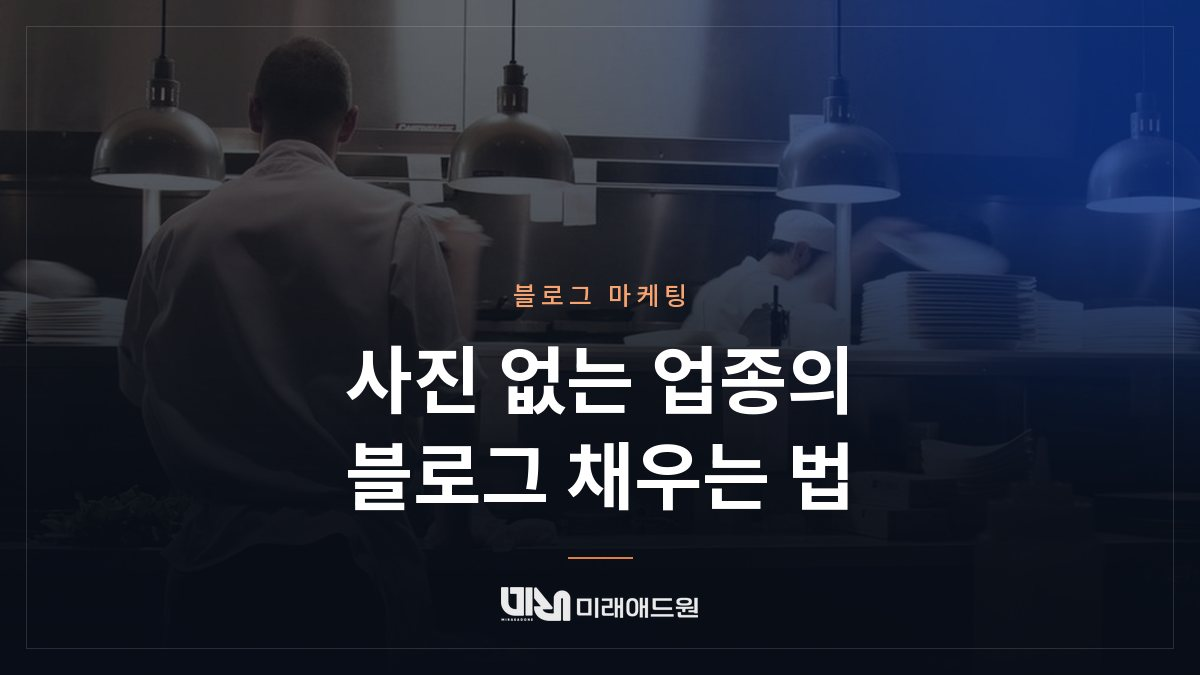
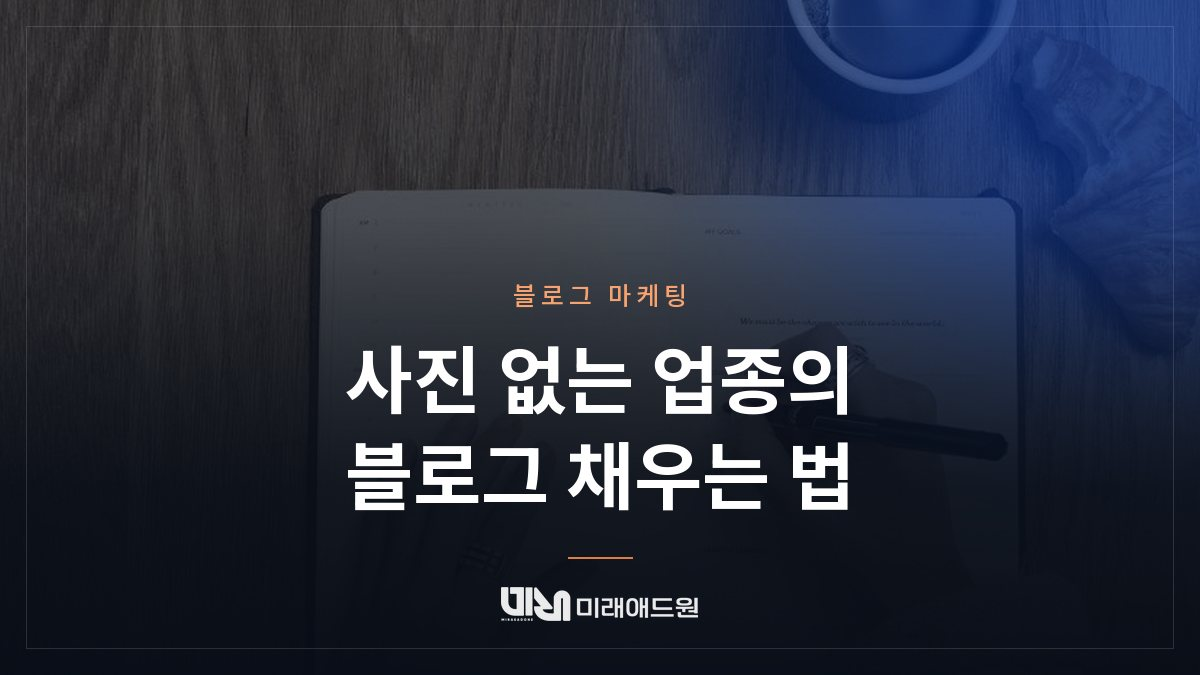
인사이트 썸네일: 글과 안 맞는 배경 바로잡기(맘카페·사진 없는 업종·병원·펜션·프랜차이즈·바이럴), 글자 뒤집힘 방지, 쉼표 뒤 줄바꿈

diff --git a/tools/thumbs/build_thumbs.py b/tools/thumbs/build_thumbs.py
@@ -97,6 +97,15 @@ def balance(d, lines, f, max_w):
     return [a, b]
 
 
+def comma_lines(d, s, f, max_w):
+    """쉼표가 있으면 쉼표 뒤에서 나눈다(양쪽 다 한 줄에 들어갈 때만) — 「첫 / 달」처럼 말이 끊기는 것을 막는다."""
+    if ', ' not in s:
+        return None
+    a, b = s.split(', ', 1)
+    a += ','
+    return [a, b] if d.textlength(a, font=f) <= max_w and d.textlength(b, font=f) <= max_w else None
+
+
 # ── 표지 문구 ────────────────────────────────────────
 def display_title(m):
     """머리말 cover(32자 이내 표지 문구)를 우선 쓰고, 없으면 제목의 앞 절만 쓴다."""
@@ -114,9 +123,9 @@ def display_title(m):
 # ── 배경 테마 ────────────────────────────────────────
 # 제목의 강한 신호만 본다. 흔한 단어는 넣지 않는다(배경이 한쪽으로 쏠리는 것을 막기 위해).
 THEME_RULES = [
-    ('cafe',       r'카페|커피|디저트|베이커리'),
+    ('cafe',       r'(?<!맘)카페(?! 바이럴)|커피|디저트|베이커리'),  # 맘카페·카페 바이럴은 온라인 커뮤니티라 제외
     ('food',       r'음식점|식당|외식|메뉴|맛집|요리'),
-    ('kitchen',    r'촬영|사진|영상|숏폼|릴스'),
+    ('kitchen',    r'촬영|영상|숏폼|릴스'),
     ('legal',      r'법률|변호사|법무|세무|노무|의료광고|심의|규정|표시|협찬|공정위|추천·보증|개인정보'),
     ('contract',   r'계약|해지|환불|인계|권한|저작권|약관'),
     ('blog',       r'블로그|원고|포스팅|스킨|글감|주제'),
@@ -124,8 +133,9 @@ THEME_RULES = [
     ('cost',       r'비용|가격|단가|수수료|예산|견적|매체비|1회당|광고비'),
     ('data',       r'AI|GEO|AEO|SEO|ChatGPT|Gemini|구조화|색인|서치어드바이저|llms|GA4|분석|추적|데이터'),
     ('marketing',  r'광고|바이럴|체험단|기자단|카페 바이럴|맘카페|SNS|인스타그램|보도자료|언론'),
-    ('storefront', r'플레이스|매장|오픈|가맹점|프랜차이즈|펜션|숙박'),
-    ('meeting',    r'상담|보고서|보고|대행사|업체 선택|고르는'),
+    ('search',     r'펜션|숙박'),  # 숙박 전용 사진이 없어 예약 채널이 보이는 검색 화면으로
+    ('storefront', r'플레이스|매장|오픈|가맹점|프랜차이즈'),
+    ('meeting',    r'병원|의원|치과|개원|상담|보고서|보고|대행사|업체 선택|고르는'),
     ('city',       r'지역|상권|동네'),
 ]
 CAT_THEME = {
@@ -169,7 +179,7 @@ def make_background(theme, seed):
     left = int((im.width - W) * rnd0.choice((0.15, 0.5, 0.85)))
     top = int((im.height - H) * rnd0.choice((0.3, 0.4, 0.55)))
     im = im.crop((left, top, left + W, top + H))
-    if theme not in ('web', 'blog') and seed % 2:
+    if theme not in ('web', 'blog', 'search', 'storefront', 'contract', 'marketing') and seed % 2:  # 글자가 보이는 사진은 뒤집지 않는다
         im = im.transpose(Image.FLIP_LEFT_RIGHT)
 
     # 톤 통일: 채도·밝기를 낮추고 네이비를 살짝 덮어 브랜드 색으로 맞춘다
@@ -216,7 +226,9 @@ def render(m):
     title = display_title(m)
     for size in (74, 70, 66, 62, 58, 54, 50, 46, 42):
         f_title = ImageFont.truetype(FONT_BOLD, size)
-        lines = balance(d, wrap_measured(d, title, f_title, MAX_W), f_title, MAX_W)
+        lines = wrap_measured(d, title, f_title, MAX_W)
+        if len(lines) > 1:
+            lines = comma_lines(d, title, f_title, MAX_W) or balance(d, lines, f_title, MAX_W)
         if len(lines) <= 2:
             break
     else:

diff --git a/content/blog/ai-wrong-company-info-fix.md b/content/blog/ai-wrong-company-info-fix.md
@@ -8,7 +8,7 @@ category: AI 검색·SEO
 tags: AI 잘못된 정보 수정, AI 답변 오류, 브랜드 정보 관리, AI 검색 가시성
 keyword: AI 잘못된 정보 수정
 service: ai-visibility
-cover: AI가 틀리게 말할 때 바로잡는 순서
+cover: AI가 틀리게 말할 때, 바로잡는 순서
 author: 미래애드원 마케팅팀
 generated: claude-opus-5-5 2026-10-26 예약 작성
 topic: ai-wrong-company-info

diff --git a/content/blog/blog-topic-calendar-planning.md b/content/blog/blog-topic-calendar-planning.md
@@ -8,7 +8,7 @@ category: 블로그 마케팅
 tags: 블로그 주제 기획, 블로그 글감, 콘텐츠 캘린더, 브랜드 블로그
 keyword: 블로그 주제 기획
 service: brand-blog
-cover: 글감이 떨어질 때 주제 캘린더 짜는 법
+cover: 글감이 떨어질 때, 주제 캘린더 짜는 법
 author: 미래애드원 마케팅팀
 generated: claude-opus-5-5 2026-10-26 예약 작성
 topic: blog-topic-planning

diff --git a/content/blog/blog-without-photos-images.md b/content/blog/blog-without-photos-images.md
@@ -9,6 +9,7 @@ tags: 블로그 이미지, 블로그 사진 없을 때, 정보형 이미지, 블
 keyword: 블로그 사진
 service: brand-blog
 cover: 사진 없는 업종의 블로그 채우는 법
+thumb_bg: writing
 author: 미래애드원 마케팅팀
 generated: claude-opus-5-5 2026-10-26 예약 작성
 topic: blog-photo-without-images

diff --git a/content/blog/academy-mom-cafe-rules.md b/content/blog/academy-mom-cafe-rules.md
@@ -9,6 +9,7 @@ tags: 학원 맘카페 홍보, 지역 맘카페, 학원 광고, 카페 바이럴
 keyword: 학원 맘카페 홍보
 service: cafe-viral
 cover: 학원 맘카페 홍보, 올리기 전 지킬 것
+thumb_bg: search
 author: 미래애드원 마케팅팀
 generated: claude-opus-5-5 2026-10-26 예약 작성
 topic: academy-mom-cafe

diff --git a/content/blog/viral-marketing-safe-vs-risky.md b/content/blog/viral-marketing-safe-vs-risky.md
@@ -9,6 +9,7 @@ tags: 바이럴 마케팅, 블로그 바이럴, 카페 바이럴, 체험단, 기
 keyword: 바이럴 마케팅
 service: blog-viral
 cover: 바이럴, 쌓이는 방식과 위험한 방식
+thumb_bg: search
 author: 미래애드원 마케팅팀
 generated: claude-opus-5-5 2026-10-26 예약 작성
 topic: kw-viral-marketing
